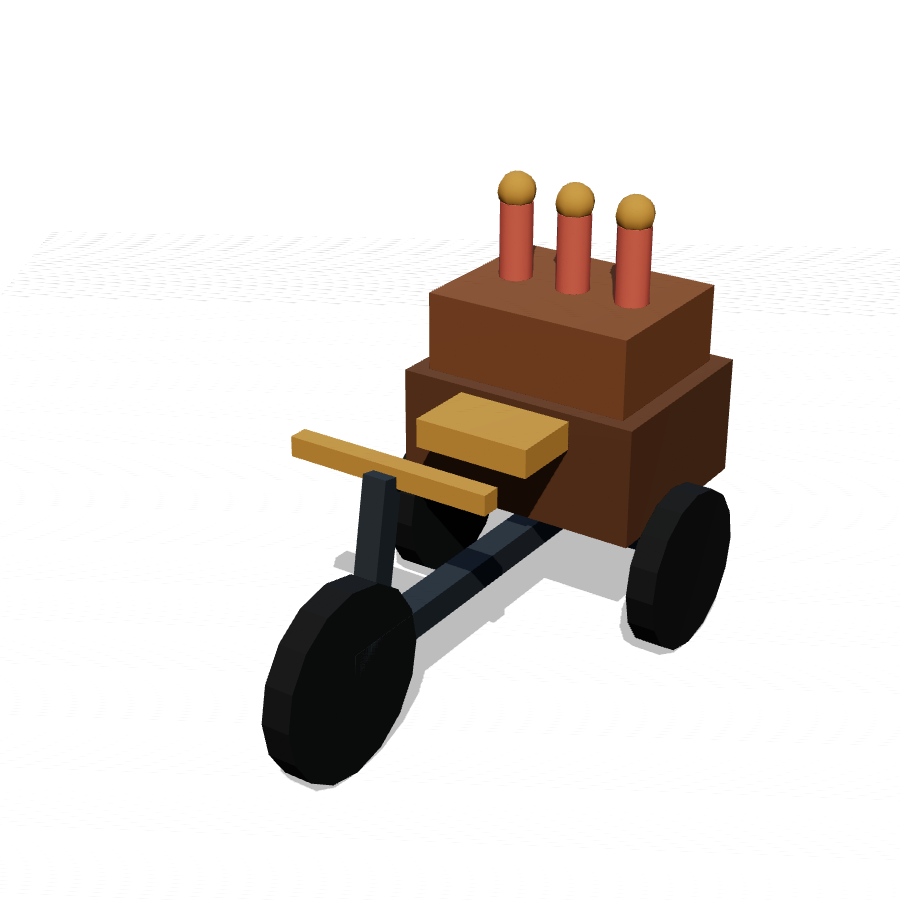
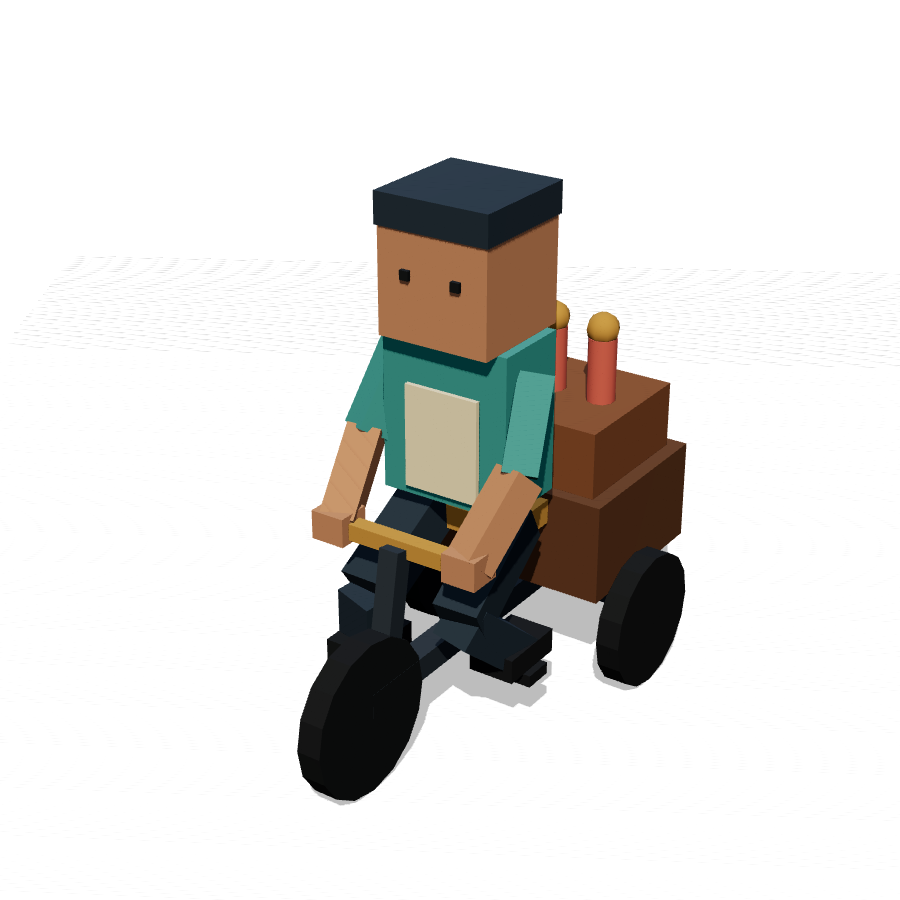
Staff the happy-hour trike with a pedaling refreshment attendant

Changed region(s): [[0.28, 0.1556, 0.84, 0.9022]]

diff --git a/src/scene/props/trike-rider.js b/src/scene/props/trike-rider.js
@@ -1,0 +1,81 @@
+import * as THREE from 'three';
+import { box, group, put } from '../build.js';
+
+/** A seated refreshment attendant, with hands on the bars and feet on the pedals. */
+export function buildTrikeRider() {
+  const obj = group();
+  obj.name = 'happy-hour-attendant';
+  const shirt = 0x4c9d96;
+  const skin = 0xc58d68;
+  const trousers = 0x34434f;
+  const axis = new THREE.Vector3(0, 1, 0);
+  const direction = new THREE.Vector3();
+  const segment = (parent, color, width = 0.16) => put(parent, box(width, 1, width, color));
+  const placeLimb = (mesh, a, b) => {
+    direction.subVectors(b, a);
+    mesh.position.copy(a).add(b).multiplyScalar(0.5);
+    mesh.scale.y = direction.length();
+    mesh.quaternion.setFromUnitVectors(axis, direction.normalize());
+  };
+
+  // Agent-sized above the saddle: the cart is an adult trike, not a toy.
+  put(obj, box(0.65, 0.78, 0.4, shirt), 0, 1.57, 0.02);
+  put(obj, box(0.38, 0.5, 0.025, 0xf0e0b8), 0, 1.48, 0.235);
+  put(obj, box(0.56, 0.56, 0.56, skin), 0, 2.24, 0.03);
+  put(obj, box(0.58, 0.15, 0.58, trousers), 0, 2.54, 0.03);
+  for (const x of [-0.13, 0.13]) put(obj, box(0.045, 0.045, 0.02, 0x25282b), x, 2.27, 0.32);
+
+  const arms = [];
+  for (const side of [-1, 1]) {
+    const arm = group(side * 0.35, 1.82, 0.02);
+    arm.name = side === 1 ? 'serving-arm' : 'steering-arm';
+    obj.add(arm);
+    const elbow = new THREE.Vector3(side * 0.06, -0.38, 0.22);
+    const hand = new THREE.Vector3(0, -0.7, 0.52);
+    placeLimb(segment(arm, shirt), new THREE.Vector3(), elbow);
+    placeLimb(segment(arm, skin), elbow, hand);
+    put(arm, box(0.17, 0.14, 0.17, skin), hand.x, hand.y, hand.z);
+    arms.push(arm);
+  }
+
+  const legs = [-1, 1].map((side) => ({
+    side,
+    hip: new THREE.Vector3(side * 0.22, 1.07, -0.03),
+    knee: new THREE.Vector3(),
+    foot: new THREE.Vector3(),
+    thigh: segment(obj, trousers, 0.22),
+    shin: segment(obj, trousers, 0.2),
+    shoe: put(obj, box(0.23, 0.12, 0.35, 0x25282b)),
+    pedal: put(obj, box(0.3, 0.06, 0.15, 0x25282b)),
+  }));
+  let phase = 0;
+  let serving = 0;
+  const pedal = (dt) => {
+    phase = (phase + dt * 5) % (2 * Math.PI);
+    for (const leg of legs) {
+      const angle = phase + (leg.side === 1 ? Math.PI : 0);
+      leg.foot.set(leg.side * 0.29, 0.45 + Math.sin(angle) * 0.16, 0.25 + Math.cos(angle) * 0.16);
+      leg.knee.set(leg.side * 0.25, 0.76, 0.46 + Math.sin(angle) * 0.05);
+      placeLimb(leg.thigh, leg.hip, leg.knee);
+      placeLimb(leg.shin, leg.knee, leg.foot);
+      leg.shoe.position.copy(leg.foot);
+      leg.pedal.position.copy(leg.foot).y -= 0.09;
+    }
+  };
+  pedal(0);
+
+  return {
+    obj, pedal,
+    // Both the rider and their trike must still be on screen to serve somebody.
+    get canServe() { return obj.visible && obj.parent?.visible === true && obj.parent.parent != null; },
+    serve() {
+      if (!this.canServe) return false;
+      serving = 0.8;
+      return true;
+    },
+    update(dt) {
+      serving = Math.max(0, serving - dt);
+      arms[1].rotation.z = serving > 0 ? -Math.sin(serving / 0.8 * Math.PI) * 0.75 : 0;
+    },
+  };
+}

diff --git a/test/trike-rider.test.js b/test/trike-rider.test.js
@@ -1,0 +1,62 @@
+import { before, beforeEach, test } from 'node:test';
+import assert from 'node:assert/strict';
+import { loadRoom, arrived } from './lib/room.js';
+import { playUntil } from './lib/frames.js';
+
+let THREE, layout, buildHappyHourTrike, loadHappyHourTrike;
+before(async () => {
+  ({ THREE } = await loadRoom());
+  layout = await import('../src/layout.js');
+  ({ buildHappyHourTrike } = await import('../src/scene/props/adult-tricycle.js'));
+  ({ loadHappyHourTrike } = await import('../src/scene/outlooks/streetscape.js'));
+});
+beforeEach(() => layout.resetLayout());
+
+function drinksCart() {
+  layout.removeObject('station:waterCooler');
+  layout.removeObject('station:coffee');
+  const station = layout.addStation('happyHourTrike', { x: 3, z: 10 });
+  layout.reviseLayout();
+  const cart = buildHappyHourTrike();
+  new THREE.Group().add(cart.obj);
+  const { manager, rec } = arrived({ byStation: { [station.id]: cart.handle } });
+  return { ...cart, station, manager, rec, rider: cart.obj.getObjectByName('happy-hour-attendant') };
+}
+
+test('the trike arrives staffed and its rider pedals while the street cart cruises', () => {
+  const mount = loadHappyHourTrike(new THREE.Group(), 21, -1.8);
+  const rider = mount.getObjectByName('happy-hour-attendant');
+  assert.ok(rider?.visible, 'a visible person occupies the saddle');
+  const initial = rider.children.map((part) => part.position.clone());
+  const start = mount.position.clone();
+  mount.userData.cruise(0.2);
+  assert.ok(start.distanceTo(mount.position) > 0.1);
+  assert.ok(rider.children.some((part, i) => initial[i].distanceTo(part.position) > 0.05), 'feet follow the pedals');
+  rider.removeFromParent();
+  const stopped = mount.position.clone();
+  mount.userData.cruise(1);
+  assert.equal(stopped.distanceTo(mount.position), 0, 'an empty saddle cannot drive the cart');
+});
+
+test('the parked rider hands a drink to an arriving agent and settles back on the bars', () => {
+  const { handle, rider, manager, rec } = drinksCart();
+  assert.equal(handle.canServe, true);
+  manager.handleEvent({ type: 'activity', id: 'a1', activity: 'drink' });
+  assert.notEqual(playUntil(manager, () => rec.agent.carrying === 'cup', 30), null, 'the attendant serves a cup after the walk');
+  handle.update(0.4);
+  const arm = rider.getObjectByName('serving-arm');
+  assert.ok(Math.abs(arm.rotation.z) > 0.1, 'one hand reaches out to serve');
+  assert.equal(rider.getObjectByName('steering-arm').rotation.z, 0);
+  handle.update(1);
+  assert.equal(arm.rotation.z, 0, 'the serving arm returns to the handlebar');
+});
+
+test('without a rider the trike cannot be selected or hand out refreshments', () => {
+  const { handle, rider, station, manager, rec } = drinksCart();
+  rider.removeFromParent();
+  assert.equal(handle.canServe, false);
+  assert.equal(handle.serve(), false);
+  assert.equal(manager._drinkStation(rec, rec.agent.drink), null, 'no other refreshments are available');
+  assert.equal(manager._collectDrink(station), null, 'also rechecked at handoff');
+  assert.equal(manager._drinkRun(rec), undefined);
+});

diff --git a/src/layout.js b/src/layout.js
@@ -214,7 +214,7 @@ export const STATION_KINDS = {
   happyHourTrike: {
     label: 'Happy-hour trike', max: 1, roles: ['refresh'], serves: ['water', 'tea', 'coffee'],
     hw: 0.7, hd: 1.2, offX: 0, offZ: 0.02, approachDist: 1.85,
-    note: 'A three-wheeled drinks bar. Park it in the room for happy-hour breaks and conversation.',
+    note: 'A three-wheeled drinks bar with its own rider and refreshment attendant. Park it in the room for happy-hour breaks and conversation.',
   },
   // Both, and the only kind that is: the post is where finished work leaves the room
   // and where new work arrives in it. A room may drop to one outbox or one inbox, but
@@ -389,10 +389,11 @@ export function rolesOf(station) {
  * @param {object} [opts]
  * @param {{x: number, z: number}} [opts.from]  measured to standing room, not the prop
  * @param {string} [opts.serves]  the sort wanted: a drink, or where work came from
+ * @param {(station: object) => boolean} [opts.available]  whether it can serve now
  * @returns {?object}
  */
-export function stationForRole(role, { from = null, serves = null } = {}) {
-  const all = stationsForRole(role);
+export function stationForRole(role, { from = null, serves = null, available = () => true } = {}) {
+  const all = stationsForRole(role).filter(available);
   if (!all.length) return null;
   const wanted = serves
     ? all.filter((s) => STATION_KINDS[s.kind]?.serves?.includes(serves))

diff --git a/src/agents/AgentManager.js b/src/agents/AgentManager.js
@@ -1932,7 +1932,16 @@ export class AgentManager {
    * is required to be able to do.
    */
   _drinkStation(rec, drink) {
-    return stationForRole('refresh', { from: rec.agent.position, serves: drink?.kind });
+    return stationForRole('refresh', {
+      from: rec.agent.position, serves: drink?.kind,
+      available: (station) => station.kind !== 'happyHourTrike' || this._propAt(station)?.canServe === true,
+    });
+  }
+
+  /** Recheck at handoff: an attendant removed during the walk cannot serve a cup. */
+  _collectDrink(station) {
+    if (station.kind !== 'happyHourTrike') return 'cup';
+    return this._propAt(station)?.serve() ? 'cup' : null;
   }
 
   /**
@@ -1959,7 +1968,7 @@ export class AgentManager {
       walk(() => this.spots.claim(station, rec.agent)),
       lookAt(station),
       wait(0.8),
-      carry('cup', { color: drink.color }),
+      carry(() => this._collectDrink(station), { color: drink.color }),
     ];
 
     if (spot.where === 'couch') {
@@ -2027,7 +2036,7 @@ export class AgentManager {
       walk(() => this.spots.claim(station, rec.agent)),
       lookAt(station),
       wait(1.0),
-      carry('cup', { color: drink.color }),
+      carry(() => this._collectDrink(station), { color: drink.color }),
       status('walking'),
       ...takeUpPostAtDesk(rec, desk, this.nav),
       // Actually drink some of it before getting back to work — fetching a coffee

diff --git a/src/scene/props/adult-tricycle.js b/src/scene/props/adult-tricycle.js
@@ -1,5 +1,6 @@
 import { COLORS } from '../../config.js';
 import { box, cyl, group, put, sphere } from '../build.js';
+import { buildTrikeRider } from './trike-rider.js';
 
 /**
  * A small adult tricycle for the happy-hour cart.
@@ -42,11 +43,26 @@ export function buildAdultTricycle() {
     put(root, sphere(0.08, brass, { segments: 8 }), x, 1.78, -0.7);
   }
 
+  const rider = buildTrikeRider();
+  root.add(rider.obj);
+  root.userData.pedal = rider.pedal;
+  // Keep references to scene nodes out of userData: three.js serializes it when
+  // cloning, while these closures retain the animation rig without a cycle.
+  root.userData.refreshments = {
+    get canServe() { return rider.canServe; },
+    serve: () => rider.serve(),
+    update: (dt) => rider.update(dt),
+  };
+
   return root;
 }
 
 /** The parked indoor drinks station uses the same model as the cruising trike. */
 export function buildHappyHourTrike() {
   const obj = buildAdultTricycle();
-  return { obj, handle: { obj } };
+  return { obj, handle: { obj,
+    get canServe() { return obj.userData.refreshments.canServe; },
+    serve: () => obj.userData.refreshments.serve(),
+    update: (dt) => obj.userData.refreshments.update(dt),
+  } };
 }

diff --git a/docs/site/user/rearranging-furniture.html b/docs/site/user/rearranging-furniture.html
@@ -306,8 +306,9 @@ mode.</p>
 <h2 id="the-add-item-menu" tabindex="-1">The Add-item menu</h2>
 <p>For a happy-hour drinks bar, open <strong>Add item… → Jobs → Happy hour</strong> and choose
 <strong>Happy-hour trike</strong>. You can add one per room, then move, rotate or remove it like
-the other stations. Agents can collect drinks there during their breaks. The trike
-you add stays where you park it; the separate trike outside cruises along the street.</p>
+the other stations. Its rider doubles as a refreshment attendant and hands drinks
+to agents during their breaks. The trike
+you add stays where you park it; outside, the same rider pedals the cruising street trike.</p>
 <p><em>ADD ITEM</em> sits above five tabs — <strong>Furniture</strong>, <strong>Desks</strong>, <strong>Jobs</strong>, <strong>Plants</strong>,
 <strong>Other</strong> — and that block does not move: the rows scroll under it, so which tab you are on
 is never scrolled away.</p>

diff --git a/src/scene/outlooks/streetscape.js b/src/scene/outlooks/streetscape.js
@@ -26,11 +26,14 @@ export function loadHappyHourTrike(parent, x, z, rotationY = 0) {
   mount.userData.description = 'Happy hour: ride around with drinks and snacks to gossip and network.';
   parent.add(mount);
 
-  mount.add(buildAdultTricycle());
+  const trike = buildAdultTricycle();
+  mount.add(trike);
   let elapsed = 0;
   // A smooth out-and-back circuit along the clear near pavement. Time belongs to
   // the room's render loop, so redecorating leaves no timers behind.
   mount.userData.cruise = (dt) => {
+    if (!trike.userData.refreshments.canServe) return;
+    trike.userData.pedal(dt);
     elapsed = (elapsed + dt) % 24;
     const angle = elapsed * Math.PI / 12;
     mount.position.x = x + Math.sin(angle) * 8;

diff --git a/src/main.js b/src/main.js
@@ -1362,6 +1362,7 @@ function animate(timestamp) {
   const dt = Math.min(timer.getDelta(), 0.05);
   if (world) {
     world.manager.update(dt);
+    world.props.happyHourTrike?.update(dt);
     world.environment.updateCruises(dt);
     // Each desk runs the board on its second screen — and only while it is being
     // worked at, so this is one cheap early return per desk in an empty room.

diff --git a/docs/site/user/rearranging-furniture.md b/docs/site/user/rearranging-furniture.md
@@ -105,8 +105,9 @@ mode.
 
 For a happy-hour drinks bar, open **Add item… → Jobs → Happy hour** and choose
 **Happy-hour trike**. You can add one per room, then move, rotate or remove it like
-the other stations. Agents can collect drinks there during their breaks. The trike
-you add stays where you park it; the separate trike outside cruises along the street.
+the other stations. Its rider doubles as a refreshment attendant and hands drinks
+to agents during their breaks. The trike
+you add stays where you park it; outside, the same rider pedals the cruising street trike.
 
 *ADD ITEM* sits above five tabs — **Furniture**, **Desks**, **Jobs**, **Plants**,
 **Other** — and that block does not move: the rows scroll under it, so which tab you are on

diff --git a/docs/user/rearranging-furniture.md b/docs/user/rearranging-furniture.md
@@ -105,8 +105,9 @@ mode.
 
 For a happy-hour drinks bar, open **Add item… → Jobs → Happy hour** and choose
 **Happy-hour trike**. You can add one per room, then move, rotate or remove it like
-the other stations. Agents can collect drinks there during their breaks. The trike
-you add stays where you park it; the separate trike outside cruises along the street.
+the other stations. Its rider doubles as a refreshment attendant and hands drinks
+to agents during their breaks. The trike
+you add stays where you park it; outside, the same rider pedals the cruising street trike.
 
 *ADD ITEM* sits above five tabs — **Furniture**, **Desks**, **Jobs**, **Plants**,
 **Other** — and that block does not move: the rows scroll under it, so which tab you are on
